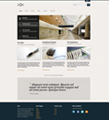
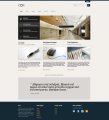
LPS-18427 - Make Carousel and Page Search cross browser

diff --git a/themes/zoe-tech-theme/docroot/_diffs/css/custom.css b/themes/zoe-tech-theme/docroot/_diffs/css/custom.css
@@ -10,8 +10,7 @@ $default-box-shadow-v-offset: 1px;
 
 /* -------- Global -------- */
 
-#breadcrumbs, #heading .page-title, #navigation .child-menu, #navigation h1, #skip-to-content, .portlet-journal-content-search .lfr-search-button, .portlet-journal-content-search .lfr-search-keywords
-{
+#breadcrumbs, #heading .page-title, #navigation .child-menu, #navigation h1, #skip-to-content, .portlet-journal-content-search .lfr-search-button, .portlet-journal-content-search .lfr-search-keywords {
 	clip: rect(0 0 0 0);
 	position: absolute;
 }
@@ -36,6 +35,10 @@ body {
 
 	&.show-footer {
 		background: #142933;
+
+		&.aui-dialog-iframe-popup {
+			background: #FFF;
+		}
 
 		#wrapper {
 			background: url(../images/custom/background.png) 0 0;
@@ -193,24 +196,21 @@ hr {
 /* -------- Search Bar -------- */
 
 #pageSearch {
-	#keywords, .lfr-search-keywords, .lfr-search-button {
-		background-image: url(../images/custom/search_sprite.png);
+		background-image: url(../images/custom/page_search.png);
 		background-repeat: no-repeat;
-	}
 
 	#keywords {
-		background-position: 0 -37px;
-		background-repeat: repeat-x;
+		background-image: none;
+		background-color: transparent;
 		border-width: 0;
 		color: #9A9A9A;
 		font-size: 12px;
 		height: 14px;
-		margin-left: 10px;
-		padding: 10px 0;
+		padding: 10px 0 10px 10px;
+		width: 170px
 	}
 
 	.lfr-search-keywords {
-		background-position: 0 0;
 		height: 36px;
 		margin-right: -10px;
 		margin-top: 3px;
@@ -222,16 +222,12 @@ hr {
 		}
 	}
 
-	.lfr-search-button {
-		background-position: 100% -107px;
-
-		.aui-field-content {
-			background: url(../images/custom/search_sprite.png) 0 -72px;
-			margin-right: 12px;
-		}
+	.lfr-search-button .aui-field-content {
+		margin-right: 12px;
 	}
 
 	#search {
+		margin-left: 3px;
 		padding: 6px 0 6px 12px;
 	}
 }
@@ -584,45 +580,14 @@ ul.arrow {
 /* ------- Browser Specific Rules ------ */
 
 .ie6 {
-	#pageSearch #search {
-		background-color: #132832;
-		height: 21px;
-	}
-
 	.aui-carousel-menu-active {
 		background-image: url(../images/custom/tab.png);
 	}
-
-	.carousel-container #tabs .divider {
-		display: none;
-	}
 }
 
-.ie7 {
-	#pageSearch #keywords {
-		margin-top: -1px;
-	}
-
+.ie6, .ie7 {
 	.carousel-container #tabs .divider {
 		background: none;
-	}
-}
-
-.ie8 #pageSearch {
-	#keywords {
-		display: block;
-	}
-
-	.lfr-search-button {
-		background-position-y: -106px;
-	}
-}
-
-.firefox #pageSearch .lfr-search-keywords {
-	margin-top: -2px;
-
-	.aui-field-content {
-		margin-top: -1px;
 	}
 }
 
